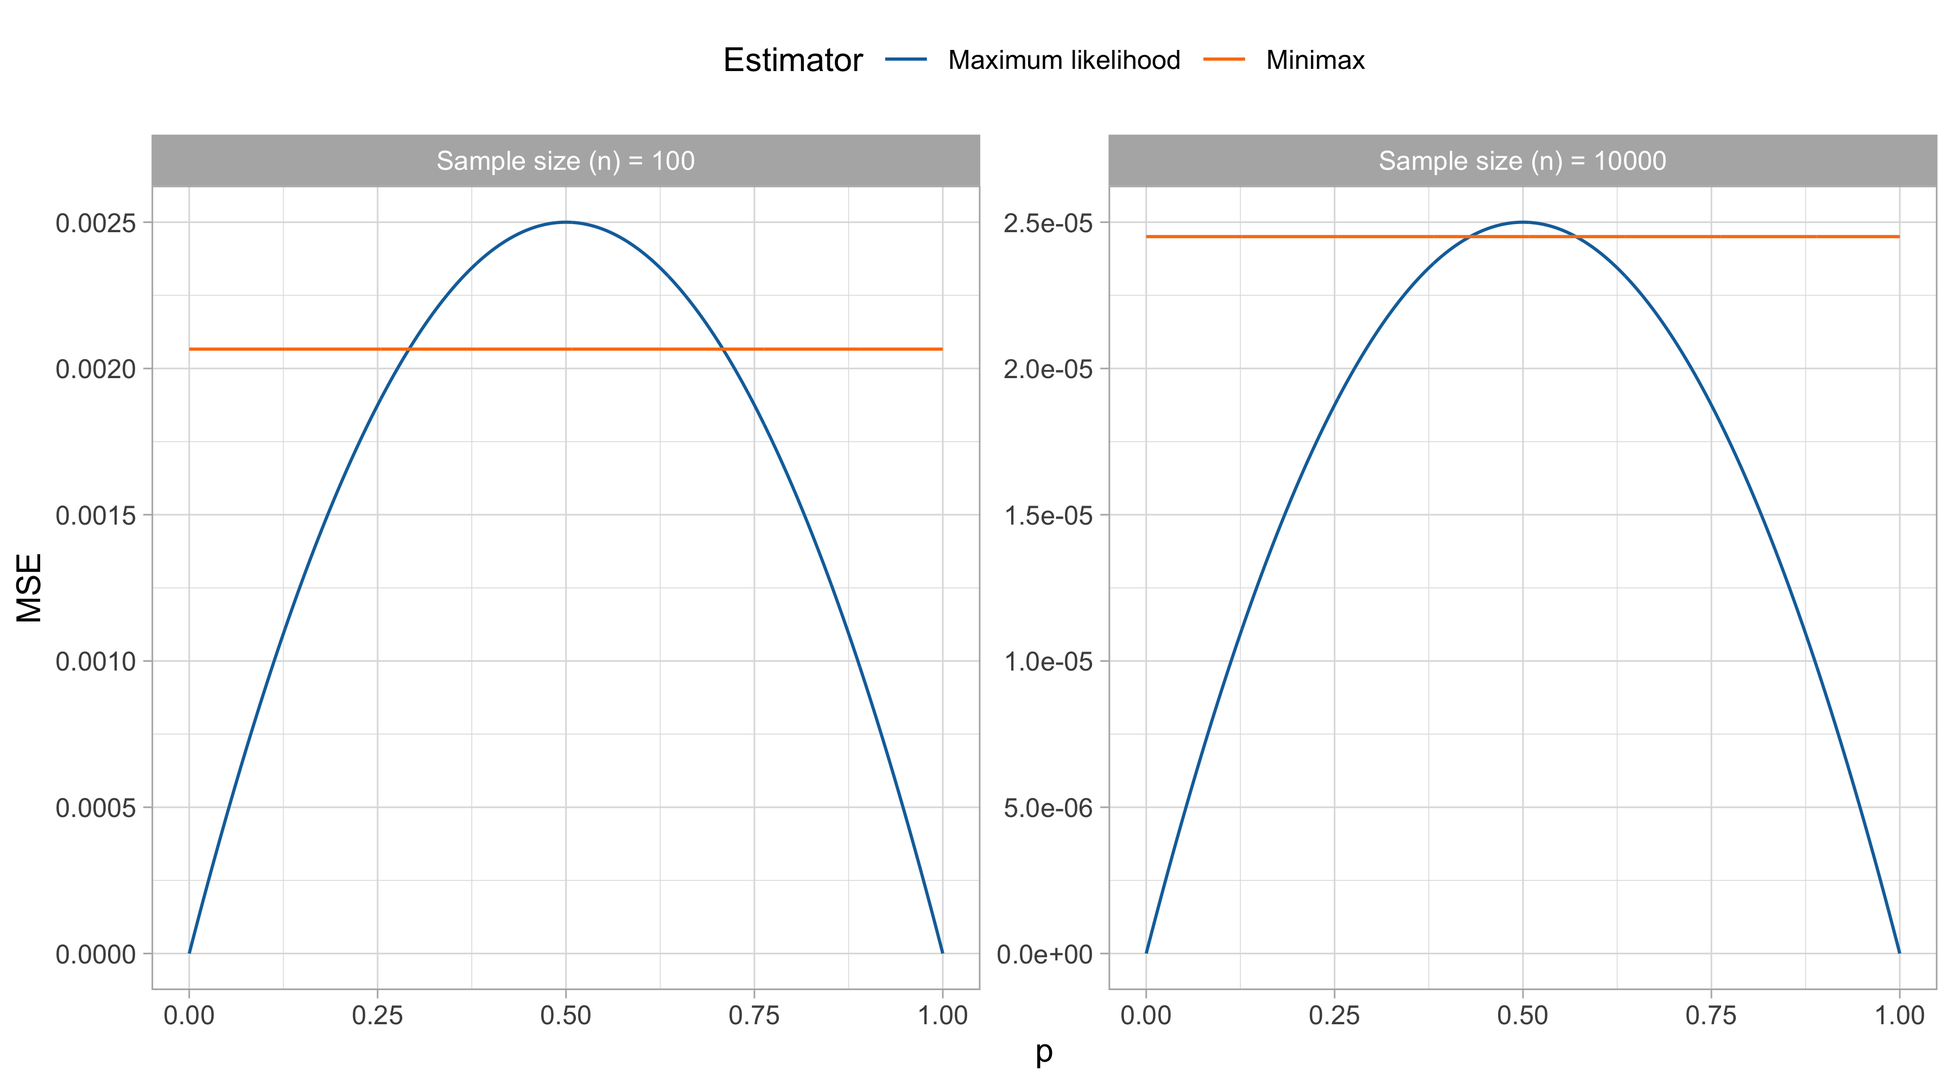
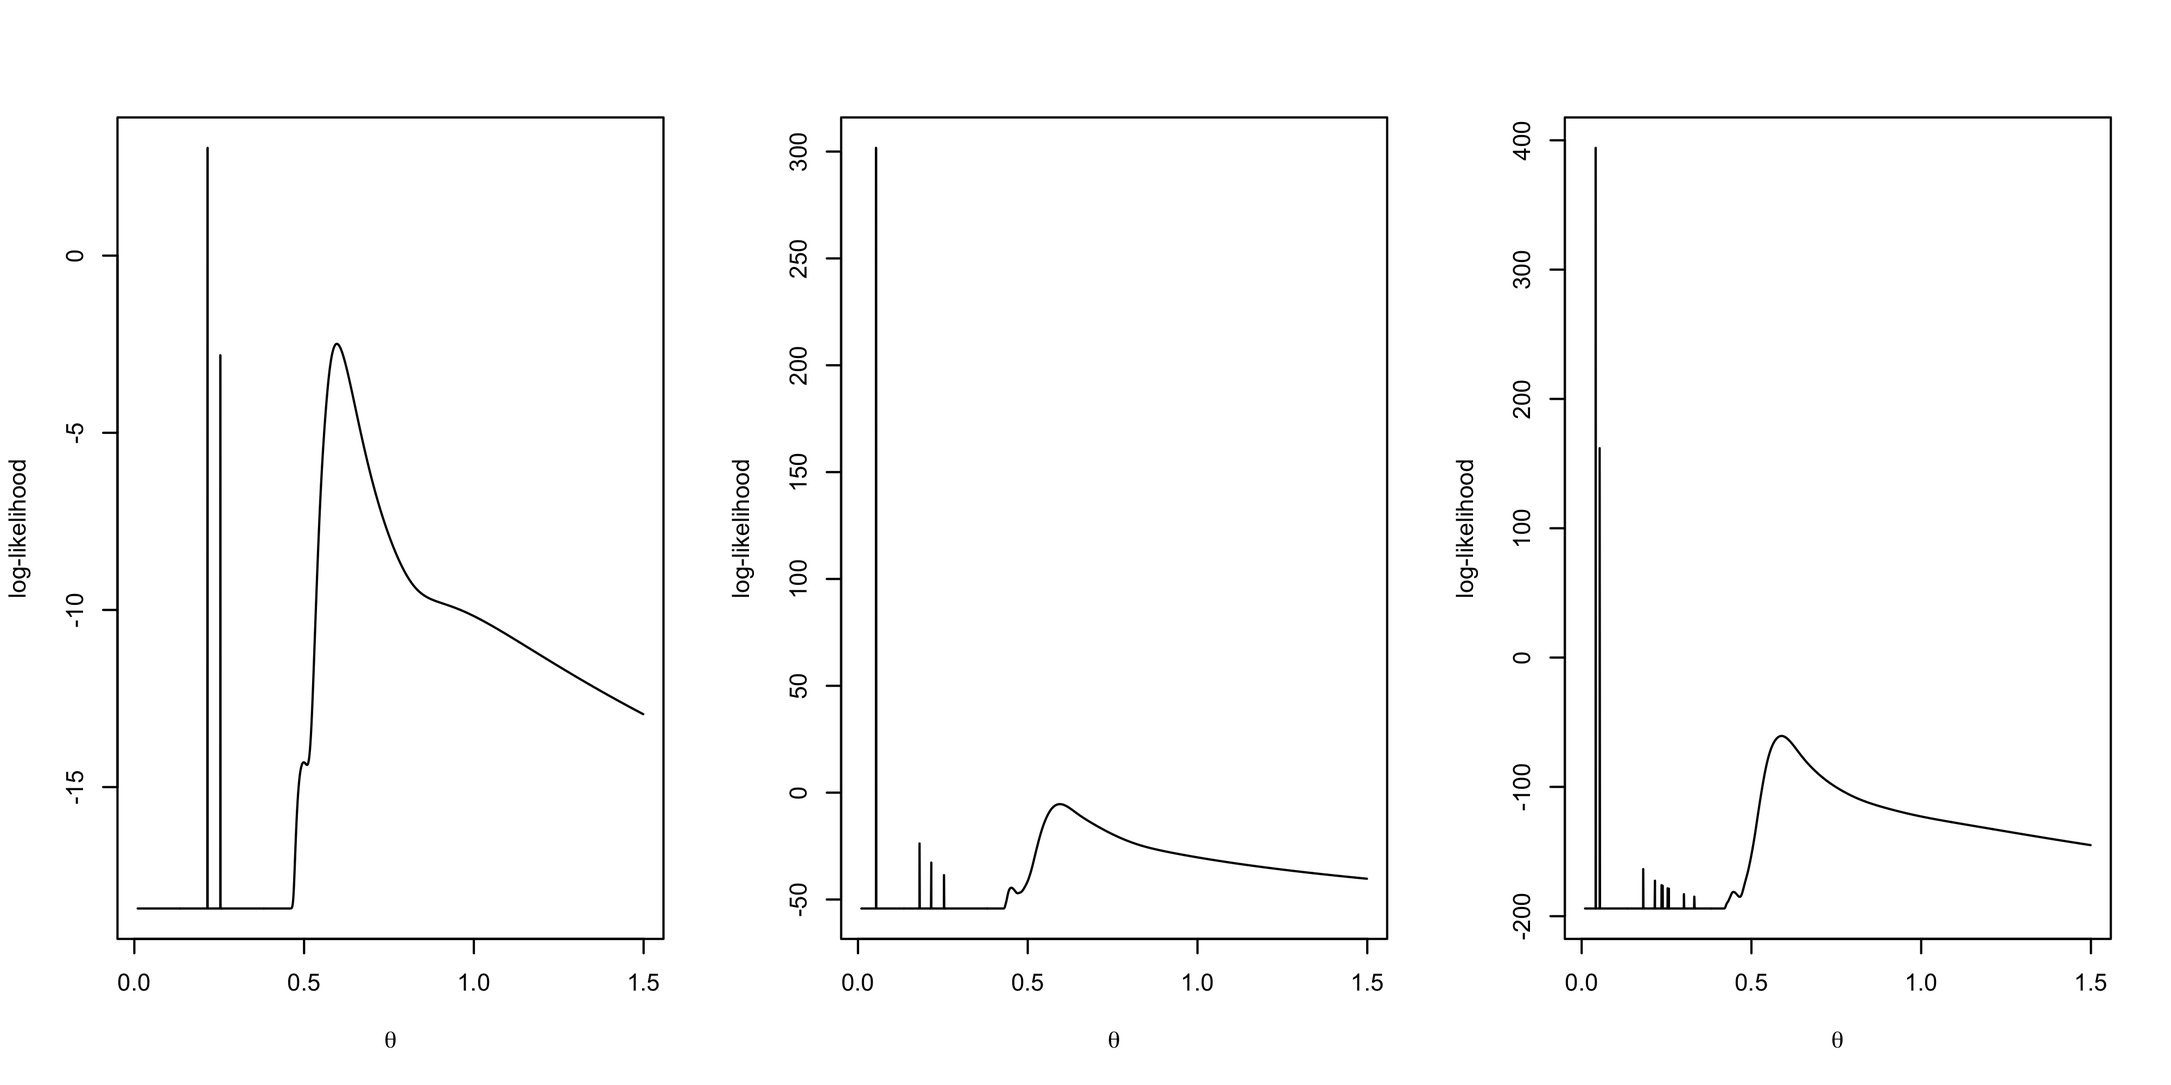
asdasd

diff --git a/slides/un_A.html b/slides/un_A.html
@@ -210,8 +210,9 @@ window.Quarto = {
   <li><a href="#wald-inequality" id="toc-wald-inequality" class="nav-link" data-scroll-target="#wald-inequality">Wald inequality</a></li>
   <li><a href="#consistency-for-the-mle" id="toc-consistency-for-the-mle" class="nav-link" data-scroll-target="#consistency-for-the-mle">Consistency for the MLE</a></li>
   <li><a href="#what-could-go-wrong" id="toc-what-could-go-wrong" class="nav-link" data-scroll-target="#what-could-go-wrong">What could go wrong?</a></li>
+  <li><a href="#what-could-go-wrong-1" id="toc-what-could-go-wrong-1" class="nav-link" data-scroll-target="#what-could-go-wrong-1">What could go wrong?</a></li>
+  <li><a href="#what-else-could-go-wrong" id="toc-what-else-could-go-wrong" class="nav-link" data-scroll-target="#what-else-could-go-wrong">What else could go wrong?</a></li>
   <li><a href="#consistency-for-the-mle-1" id="toc-consistency-for-the-mle-1" class="nav-link" data-scroll-target="#consistency-for-the-mle-1">Consistency for the MLE</a></li>
-  <li><a href="#comments-of-consistency-results" id="toc-comments-of-consistency-results" class="nav-link" data-scroll-target="#comments-of-consistency-results">Comments of consistency results</a></li>
   <li><a href="#asymptotic-normality-for-the-mle" id="toc-asymptotic-normality-for-the-mle" class="nav-link" data-scroll-target="#asymptotic-normality-for-the-mle">Asymptotic normality for the MLE</a></li>
   <li><a href="#asymptotics-for-unbiased-estimating-equations" id="toc-asymptotics-for-unbiased-estimating-equations" class="nav-link" data-scroll-target="#asymptotics-for-unbiased-estimating-equations">Asymptotics for unbiased estimating equations</a></li>
   <li><a href="#asymptotic-bias-and-firth-corrections" id="toc-asymptotic-bias-and-firth-corrections" class="nav-link" data-scroll-target="#asymptotic-bias-and-firth-corrections">Asymptotic bias and Firth corrections</a></li>
@@ -2218,21 +2219,80 @@ Theorem (<span class="citation" data-cites="Lehmann1998">Lehmann and Casella (<a
 </section>
 <section id="what-could-go-wrong" class="level2 page-columns page-full">
 <h2 class="anchored" data-anchor-id="what-could-go-wrong">What could go wrong?</h2>
-<p>Let <span class="math inline">Y_1,\dots,Y_n</span> be an iid sample from the following univariate density<a href="#fn17" class="footnote-ref" id="fnref17" role="doc-noteref"><sup>17</sup></a> <span class="math display">
-f(y; \theta) = \frac{1}{2}\phi(x; 0, 1) + \frac{1}{2}\phi(x; \theta, \exp\{-2/\theta^2\}),  \qquad y,\theta \in \mathbb{R},
-</span> where <span class="math inline">\phi(x; \mu, \sigma^2)</span> is the <span class="orange">normal density</span> with mean <span class="math inline">\mu</span> and variance <span class="math inline">\sigma^2</span>, which satisfies conditions <span class="blue">(A1)-(A3)</span>.</p>
-<div class="no-row-height column-margin column-container"><div id="fn17"><p><sup>17</sup>&nbsp;This example is taken from a <a href="https://radfordneal.wordpress.com/2008/08/09/inconsistent-maximum-likelihood-estimation-an-ordinary-example/">blogpost</a> of Radford Neal.</p></div></div></section>
-<section id="consistency-for-the-mle-1" class="level2">
-<h2 class="anchored" data-anchor-id="consistency-for-the-mle-1">Consistency for the MLE</h2>
-<p>(TH2) (<span class="citation" data-cites="Lehmann1998">Lehmann and Casella (<a href="#ref-Lehmann1998" role="doc-biblioref">1998</a>)</span>, Th. 3.7, Chap. 6) Under assumptions <span class="blue">(A1)-(A4)</span>, suppose <span class="math inline">\Theta \subseteq \mathbb{R}</span>, that <span class="math inline">f(y; \theta)</span> is <span class="blue">differentiable</span> and that, with probability tending to one as <span class="math inline">n\rightarrow \infty</span>, the score equation <span class="math inline">\ell^*(\theta) = 0</span> has a <span class="blue">unique solution</span> <span class="math inline">\hat{\theta}_n</span>. Then <span class="math inline">\hat{\theta}_n</span> is a <span class="orange">consistent estimator</span> of <span class="math inline">\theta_0</span>.</p>
-<p>(TH3) (<span class="citation" data-cites="Lehmann1998">Lehmann and Casella (<a href="#ref-Lehmann1998" role="doc-biblioref">1998</a>)</span>, Th. 5.1, Chap. 6) Under assumptions <span class="blue">(A1)-(A6)</span>, suppose that, with probability tending to one as <span class="math inline">n\rightarrow \infty</span>, the score equations <span class="math inline">\ell^*(\theta) = \bm{0}</span> have a <span class="blue">unique solution</span> <span class="math inline">\hat{\theta}_n</span>. Then <span class="math inline">\hat{\theta}_n</span> is a <span class="orange">consistent estimator</span> of <span class="math inline">\theta_0</span>.</p>
-</section>
-<section id="comments-of-consistency-results" class="level2">
-<h2 class="anchored" data-anchor-id="comments-of-consistency-results">Comments of consistency results</h2>
 <ul>
-<li><p>TH1 requires the <span class="orange">finiteness</span> of <span class="math inline">\Theta</span>, which is clearly <span class="orange">restrictive</span>.</p></li>
-<li><p>On the other hand, the statements of TH2 and TH3 are complicated by the possibility <span class="blue">multiple roots</span>, so one must shown existence and uniqueness of <span class="math inline">\hat{\theta}_n</span> by other means.</p></li>
+<li><p>Let <span class="math inline">Y_1,\dots,Y_n</span> be an iid sample from the following univariate density<a href="#fn17" class="footnote-ref" id="fnref17" role="doc-noteref"><sup>17</sup></a> <span class="math display">
+f(y; \theta) = \frac{1}{2}\phi(y; 0, 1) + \frac{1}{2}\phi(y; \theta, e^{-2/\theta^2}),  \qquad \theta \in \mathbb{R},
+</span> where <span class="math inline">\phi(x; \mu, \sigma^2)</span> is the <span class="orange">normal density</span>. The density <span class="math inline">f(y; \theta)</span> satisfies conditions <span class="blue">(A1)-(A4)</span>. Moreover <span class="math inline">\ell(\theta)</span> is <span class="blue">differentiable</span>.</p></li>
+<li><p>However, the log-likelihood present <span class="blue">spykes</span> in correspondence of the observed data and the maximum likelihood concentrates around <span class="math inline">0</span> rather than <span class="math inline">\theta_0</span>, i.e <span class="math inline">\hat{\theta}_n</span> is <span class="orange">inconsistent</span>.</p></li>
+<li><p>Note this does not contradict Wald inequality, because the spykes occur on a <span class="orange">set of measure zero</span>. Indeed for any fixed <span class="math inline">\theta</span> the probability of observing <span class="math inline">Y_i = \theta</span> is zero.</p></li>
+<li><p>There are <span class="blue">multiple roots</span> of the score equation <span class="math inline">\ell^*(\theta)</span>, corresponding to the spykes and the “correct” solution around <span class="math inline">\theta_0</span>.</p></li>
 </ul>
+<div class="no-row-height column-margin column-container"><div id="fn17"><p><sup>17</sup>&nbsp;This example is taken from a <a href="https://radfordneal.wordpress.com/2008/08/09/inconsistent-maximum-likelihood-estimation-an-ordinary-example/">blogpost</a> of Radford Neal.</p></div></div></section>
+<section id="what-could-go-wrong-1" class="level2">
+<h2 class="anchored" data-anchor-id="what-could-go-wrong-1">What could go wrong?</h2>
+<div class="cell" data-layout-align="center">
+<div class="cell-output cell-output-stderr">
+<pre><code>Warning in rug(y[1:30]): some values will be clipped</code></pre>
+</div>
+<div class="cell-output cell-output-stderr">
+<pre><code>Warning in rug(y): some values will be clipped</code></pre>
+</div>
+<div class="cell-output-display">
+<div class="quarto-figure quarto-figure-center">
+<figure class="figure">
+<p><img src="un_A_files/figure-html/unnamed-chunk-17-1.png" class="img-fluid quarto-figure quarto-figure-center figure-img" width="1200"></p>
+</figure>
+</div>
+</div>
+</div>
+<ul>
+<li>These are <span class="blue">simulated data</span> when the true value is <span class="math inline">\theta_0 = 0.6</span>. We plot the <span class="orange">log-density</span> <span class="math inline">\log{f(y;\theta_0)}</span> and the <span class="blue">log-likelihood</span> <span class="math inline">\ell(\theta)</span> for <span class="math inline">n=10,30,100</span>.</li>
+</ul>
+</section>
+<section id="what-else-could-go-wrong" class="level2">
+<h2 class="anchored" data-anchor-id="what-else-could-go-wrong">What else could go wrong?</h2>
+<div class="cell">
+<div class="cell-output-display">
+<div>
+<figure class="figure">
+<p><img src="un_A_files/figure-html/unnamed-chunk-18-1.png" class="img-fluid figure-img" width="1050"></p>
+</figure>
+</div>
+</div>
+</div>
+<ul>
+<li>The picture depict a possible <span class="math inline">- \text{KL}(f(\cdot; \theta_0) \mid f(\cdot; \theta))</span> an hypothetical situation in which the true value is <span class="math inline">\theta_0 = \pi/2</span>. The presence of the asymptote may cause <span class="math inline">\hat{\theta}_n</span> to <span class="orange">diverge</span>.</li>
+</ul>
+</section>
+<section id="consistency-for-the-mle-1" class="level2 page-columns page-full">
+<h2 class="anchored" data-anchor-id="consistency-for-the-mle-1">Consistency for the MLE</h2>
+<div class="callout callout-style-simple callout-warning no-icon callout-titled">
+<div class="callout-header d-flex align-content-center">
+<div class="callout-icon-container">
+<i class="callout-icon no-icon"></i>
+</div>
+<div class="callout-title-container flex-fill">
+Theorem (<span class="citation" data-cites="Lehmann1998">Lehmann and Casella (<a href="#ref-Lehmann1998" role="doc-biblioref">1998</a>)</span>, Th. 5.1, Chap. 6)
+</div>
+</div>
+<div class="callout-body-container callout-body">
+<p>Under assumptions <span class="blue">(A1)-(A6)</span>, with probability tending to <span class="math inline">1</span> as <span class="math inline">n\rightarrow \infty</span>, the equation <span class="math inline">\ell^*(\theta) = \bm{0}</span> has at least one root <span class="math inline">\hat{\theta}_n</span>, and there exists a sequence of roots <span class="math inline">\hat{\theta}_n</span> such that <span class="math inline">\hat{\theta}_n \overset{p}{\longrightarrow} \theta_0</span>.</p>
+</div>
+</div>
+<ul>
+<li><p>This standard result of the literature requires several regularity conditions and yet it delivers <span class="orange">less</span> than <span class="orange">what it seems</span>.<a href="#fn18" class="footnote-ref" id="fnref18" role="doc-noteref"><sup>18</sup></a></p></li>
+<li><p>The claim is that a <span class="blue">clairvoyant statistician</span>, with knowlegde of <span class="math inline">\theta_0</span>, could choose a consistent sequence of roots. In reality, it may be impossibile to choose the right solution.</p></li>
+</ul>
+<div class="no-row-height column-margin column-container"><div id="fn18"><p><sup>18</sup>&nbsp;See also <span class="citation" data-cites="vandervaart1998">van der Vaart (<a href="#ref-vandervaart1998" role="doc-biblioref">1998</a>)</span>, Theorem 5.42, for slightly less stringent conditions and a careful discussion.</p></div></div><div class="callout callout-style-simple callout-tip no-icon">
+<div class="callout-body d-flex">
+<div class="callout-icon-container">
+<i class="callout-icon no-icon"></i>
+</div>
+<div class="callout-body-container">
+<p>The situation is not bad as it seems if we further require that, with probability tending to 1 as <span class="math inline">n\to \infty</span>, there is a <span class="blue">unique solution</span> to the <span class="orange">score equation</span>. In that case <span class="math inline">\hat{\theta}_n</span> is the global maximizer of <span class="math inline">\ell(\theta)</span> and is also <span class="orange">consistent</span>.</p>
+</div>
+</div>
+</div>
 </section>
 <section id="asymptotic-normality-for-the-mle" class="level2">
 <h2 class="anchored" data-anchor-id="asymptotic-normality-for-the-mle">Asymptotic normality for the MLE</h2>

diff --git a/slides/un_A_slides.html b/slides/un_A_slides.html
@@ -2116,22 +2116,53 @@ G(\beta)^{-1} =  \sigma^2 \left[(\bm{A}^T \bm{X})^{-1}\bm{A}^T\right] \left[(\bm
 </section>
 <section id="what-could-go-wrong" class="slide level2 center">
 <h2>What could go wrong?</h2>
-<p>Let us consider a sample of iid observations <span class="math inline">Y_1,\dots,Y_n</span> from the following univariate density<sup>1</sup> <span class="math display">
-f(y; \theta) = \frac{1}{2}\phi(x; 0, 1) + \frac{1}{2}\phi(x; \theta, \exp\{-2/\theta^2\}),  \qquad y,\theta \in \mathbb{R},
-</span> which satisfies conditions <span class="blue">(A1)-(A3)</span>.</p>
-<aside><ol class="aside-footnotes"><li id="fn17"><p>This example is taken from a <a href="https://radfordneal.wordpress.com/2008/08/09/inconsistent-maximum-likelihood-estimation-an-ordinary-example/">blogpost</a> of Radford Neal.</p></li></ol></aside></section>
-<section id="consistency-for-the-mle-1" class="slide level2 center">
-<h2>Consistency for the MLE</h2>
-<p>(TH2) (<span class="citation" data-cites="Lehmann1998">Lehmann and Casella (<a href="#/references" role="doc-biblioref" onclick="">1998</a>)</span>, Th. 3.7, Chap. 6) Under assumptions <span class="blue">(A1)-(A4)</span>, suppose <span class="math inline">\Theta \subseteq \mathbb{R}</span>, that <span class="math inline">f(y; \theta)</span> is <span class="blue">differentiable</span> and that, with probability tending to one as <span class="math inline">n\rightarrow \infty</span>, the score equation <span class="math inline">\ell^*(\theta) = 0</span> has a <span class="blue">unique solution</span> <span class="math inline">\hat{\theta}_n</span>. Then <span class="math inline">\hat{\theta}_n</span> is a <span class="orange">consistent estimator</span> of <span class="math inline">\theta_0</span>.</p>
-<p>(TH3) (<span class="citation" data-cites="Lehmann1998">Lehmann and Casella (<a href="#/references" role="doc-biblioref" onclick="">1998</a>)</span>, Th. 5.1, Chap. 6) Under assumptions <span class="blue">(A1)-(A6)</span>, suppose that, with probability tending to one as <span class="math inline">n\rightarrow \infty</span>, the score equations <span class="math inline">\ell^*(\theta) = \bm{0}</span> have a <span class="blue">unique solution</span> <span class="math inline">\hat{\theta}_n</span>. Then <span class="math inline">\hat{\theta}_n</span> is a <span class="orange">consistent estimator</span> of <span class="math inline">\theta_0</span>.</p>
-</section>
-<section id="comments-of-consistency-results" class="slide level2 center">
-<h2>Comments of consistency results</h2>
 <ul>
-<li><p>TH1 requires the <span class="orange">finiteness</span> of <span class="math inline">\Theta</span>, which is clearly <span class="orange">restrictive</span>.</p></li>
-<li><p>On the other hand, the statements of TH2 and TH3 are complicated by the possibility <span class="blue">multiple roots</span>, so one must shown existence and uniqueness of <span class="math inline">\hat{\theta}_n</span> by other means.</p></li>
+<li><p>Let <span class="math inline">Y_1,\dots,Y_n</span> be an iid sample from the following univariate density<sup>1</sup> <span class="math display">
+f(y; \theta) = \frac{1}{2}\phi(y; 0, 1) + \frac{1}{2}\phi(y; \theta, e^{-2/\theta^2}),  \qquad \theta \in \mathbb{R},
+</span> where <span class="math inline">\phi(x; \mu, \sigma^2)</span> is the <span class="orange">normal density</span>. The density <span class="math inline">f(y; \theta)</span> satisfies conditions <span class="blue">(A1)-(A4)</span>. Moreover <span class="math inline">\ell(\theta)</span> is <span class="blue">differentiable</span>.</p></li>
+<li><p>However, the log-likelihood present <span class="blue">spykes</span> in correspondence of the observed data and the maximum likelihood concentrates around <span class="math inline">0</span> rather than <span class="math inline">\theta_0</span>, i.e <span class="math inline">\hat{\theta}_n</span> is <span class="orange">inconsistent</span>.</p></li>
+<li><p>Note this does not contradict Wald inequality, because the spykes occur on a <span class="orange">set of measure zero</span>. Indeed for any fixed <span class="math inline">\theta</span> the probability of observing <span class="math inline">Y_i = \theta</span> is zero.</p></li>
+<li><p>There are <span class="blue">multiple roots</span> of the score equation <span class="math inline">\ell^*(\theta)</span>, corresponding to the spykes and the “correct” solution around <span class="math inline">\theta_0</span>.</p></li>
+</ul>
+<aside><ol class="aside-footnotes"><li id="fn17"><p>This example is taken from a <a href="https://radfordneal.wordpress.com/2008/08/09/inconsistent-maximum-likelihood-estimation-an-ordinary-example/">blogpost</a> of Radford Neal.</p></li></ol></aside></section>
+<section id="what-could-go-wrong-1" class="slide level2 center">
+<h2>What could go wrong?</h2>
+
+<img data-src="un_A_files/figure-revealjs/unnamed-chunk-17-1.png" class="quarto-figure quarto-figure-center r-stretch" width="1600"><ul>
+<li>These are <span class="blue">simulated data</span> when the true value is <span class="math inline">\theta_0 = 0.6</span>. We plot the <span class="orange">log-density</span> <span class="math inline">\log{f(y;\theta_0)}</span> and the <span class="blue">log-likelihood</span> <span class="math inline">\ell(\theta)</span> for <span class="math inline">n=10,30,100</span>.</li>
 </ul>
 </section>
+<section id="what-else-could-go-wrong" class="slide level2 center">
+<h2>What else could go wrong?</h2>
+
+<img data-src="un_A_files/figure-revealjs/unnamed-chunk-18-1.png" width="2000" class="r-stretch"><ul>
+<li>The picture depict a possible <span class="math inline">- \text{KL}(f(\cdot; \theta_0) \mid f(\cdot; \theta))</span> an hypothetical situation in which the true value is <span class="math inline">\theta_0 = \pi/2</span>. The presence of the asymptote may cause <span class="math inline">\hat{\theta}_n</span> to <span class="orange">diverge</span>.</li>
+</ul>
+</section>
+<section id="consistency-for-the-mle-1" class="slide level2 center">
+<h2>Consistency for the MLE</h2>
+<div class="callout callout-warning no-icon callout-titled callout-style-simple">
+<div class="callout-body">
+<div class="callout-title">
+<p><strong>Theorem (<span class="citation" data-cites="Lehmann1998">Lehmann and Casella (<a href="#/references" role="doc-biblioref" onclick="">1998</a>)</span>, Th. 5.1, Chap. 6)</strong></p>
+</div>
+<div class="callout-content">
+<p>Under assumptions <span class="blue">(A1)-(A6)</span>, with probability tending to <span class="math inline">1</span> as <span class="math inline">n\rightarrow \infty</span>, the equation <span class="math inline">\ell^*(\theta) = \bm{0}</span> has at least one root <span class="math inline">\hat{\theta}_n</span>, and there exists a sequence of roots <span class="math inline">\hat{\theta}_n</span> such that <span class="math inline">\hat{\theta}_n \overset{p}{\longrightarrow} \theta_0</span>.</p>
+</div>
+</div>
+</div>
+<ul>
+<li><p>This standard result of the literature requires several regularity conditions and yet it delivers <span class="orange">less</span> than <span class="orange">what it seems</span>.<sup>1</sup></p></li>
+<li><p>The claim is that a <span class="blue">clairvoyant statistician</span>, with knowlegde of <span class="math inline">\theta_0</span>, could choose a consistent sequence of roots. In reality, it may be impossibile to choose the right solution.</p></li>
+</ul>
+<div class="callout callout-tip no-icon callout-style-simple">
+<div class="callout-body">
+<div class="callout-content">
+<p>The situation is not bad as it seems if we further require that, with probability tending to 1 as <span class="math inline">n\to \infty</span>, there is a <span class="blue">unique solution</span> to the <span class="orange">score equation</span>. In that case <span class="math inline">\hat{\theta}_n</span> is the maximizer of <span class="math inline">\ell(\theta)</span> and is also <span class="orange">consistent</span>.</p>
+</div>
+</div>
+</div>
+<aside><ol class="aside-footnotes"><li id="fn18"><p>See also <span class="citation" data-cites="vandervaart1998">van der Vaart (<a href="#/references" role="doc-biblioref" onclick="">1998</a>)</span>, Theorem 5.42, for slightly less stringent conditions and a careful discussion.</p></li></ol></aside></section>
 <section id="asymptotic-normality-for-the-mle" class="slide level2 center">
 <h2>Asymptotic normality for the MLE</h2>
 </section>
